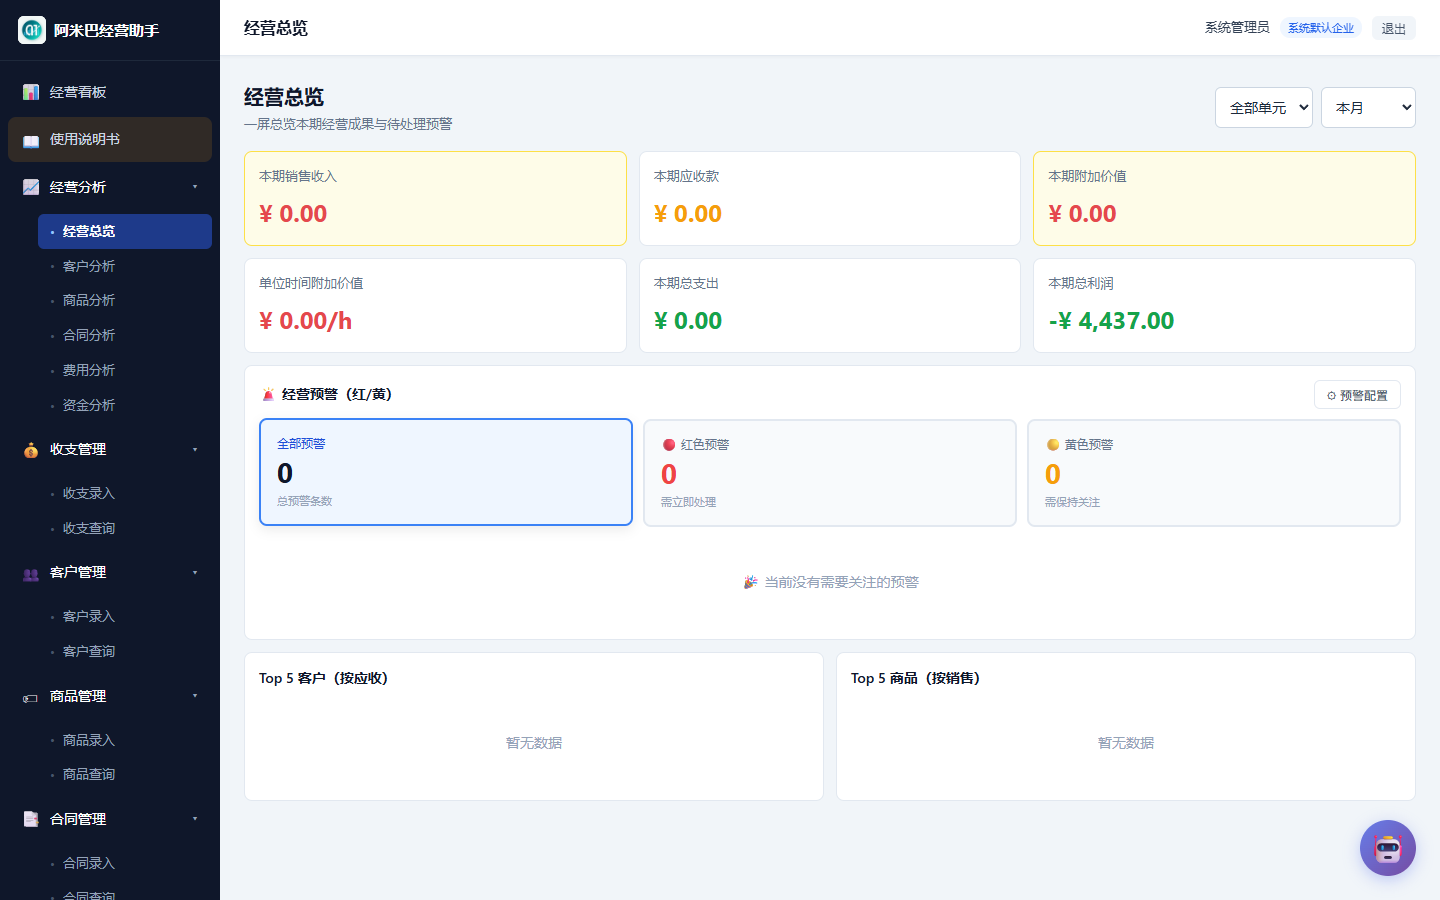
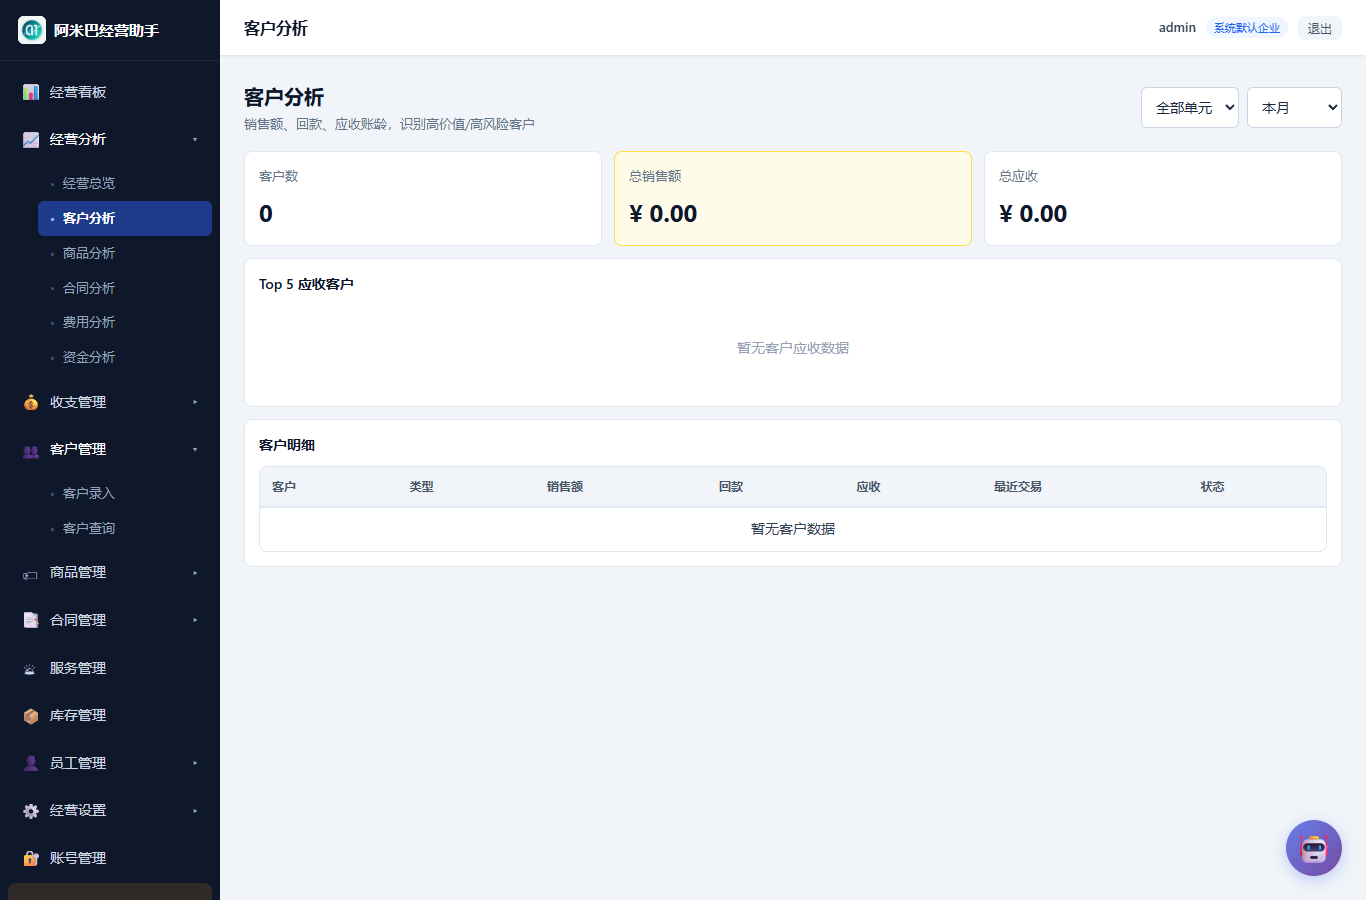
fix: 手册目录固定加宽加序号、限制截图大小、重截错配图、第9章去admin

diff --git a/public/js/manual.js b/public/js/manual.js
@@ -22,15 +22,15 @@ const Manual = (() => {
   function form(f){ return `<div class="callout formula"><span class="co-ic">🧮</span><div>${f}</div></div>`; }
 
   const TOC = [
-    { id: 'ch1', t: '新手上路：第一次使用' },
-    { id: 'ch2', t: '管好客户与合同（前置基础）' },
-    { id: 'ch3', t: '记好每一笔账（收支管理）' },
-    { id: 'ch4', t: '商品、服务与库存' },
-    { id: 'ch5', t: '看清经营状况' },
-    { id: 'ch6', t: '算清阿米巴的账' },
-    { id: 'ch7', t: '管人与发薪（员工管理）' },
-    { id: 'ch8', t: 'AI 经营助手提效' },
-    { id: 'ch9', t: '系统设置与账号（管理员）' }
+    { id: 'ch1', t: '1、新手上路：第一次使用' },
+    { id: 'ch2', t: '2、管好客户与合同（前置基础）' },
+    { id: 'ch3', t: '3、记好每一笔账（收支管理）' },
+    { id: 'ch4', t: '4、商品、服务与库存' },
+    { id: 'ch5', t: '5、看清经营状况' },
+    { id: 'ch6', t: '6、算清阿米巴的账' },
+    { id: 'ch7', t: '7、管人与发薪（员工管理）' },
+    { id: 'ch8', t: '8、AI 经营助手提效' },
+    { id: 'ch9', t: '9、经营设置' }
   ];
 
   function render() {
@@ -57,7 +57,7 @@ const Manual = (() => {
 
           <!-- ========== 第 1 章 ========== -->
           <section id="ch1" class="manual-ch">
-            <h2>① 新手上路：第一次使用</h2>
+            <h2>第 1 章 新手上路：第一次使用</h2>
             <p>第一次打开系统，只需 1 分钟就能进入工作状态。</p>
 
             <h3>1.1 登录</h3>
@@ -65,7 +65,7 @@ const Manual = (() => {
               <li>在登录页输入<strong>账号</strong>与<strong>密码</strong>，点击「登录」。</li>
               <li>登录成功后自动进入<strong>经营看板</strong>，右上角会显示你的姓名与绑定的企业名称。</li>
             </ol>
-            ${warn('账号由系统管理员（admin）创建并分配。若提示「用户名或密码错误」，请联系管理员确认账号或重置密码。')}
+            ${warn('账号由系统管理员创建并分配。若提示「用户名或密码错误」，请联系管理员确认账号或重置密码。')}
             ${shot('shot-login', '登录页：输入账号密码进入系统')}
 
             <h3>1.2 认识界面</h3>
@@ -88,7 +88,7 @@ const Manual = (() => {
 
           <!-- ========== 第 2 章（前置基础） ========== -->
           <section id="ch2" class="manual-ch">
-            <h2>② 管好客户与合同（前置基础）</h2>
+            <h2>第 2 章 管好客户与合同（前置基础）</h2>
             <p>在记任何一笔账之前，请先在这里把<strong>客户</strong>和<strong>合同</strong>建好。原因很关键：<strong>系统里绝大部分收入和支出，都建立在「与某份合同关联」的基础之上</strong>——合同一旦建立，后续每次收款、付款、回款进度都会自动归集到这份合同，经营看板的应收/应付、合同分析也才有数据。</p>
             ${warn('强烈建议：先完成本章的客户与合同录入，再进入第 ③ 章记收支。没有合同的收支也能录，但无法参与「按合同回款跟踪」，会漏掉大量经营洞察。')}
 
@@ -121,7 +121,7 @@ const Manual = (() => {
 
           <!-- ========== 第 3 章 ========== -->
           <section id="ch3" class="manual-ch">
-            <h2>③ 记好每一笔账（收支管理）</h2>
+            <h2>第 3 章 记好每一笔账（收支管理）</h2>
             <p>阿米巴经营的核心就是「把每一笔收支记清楚」。在上一章建好客户与合同后，这里录的每一笔都<strong>可以直接关联它们</strong>，让数据自动成网。</p>
 
             <h3>3.1 录入一笔收入或支出</h3>
@@ -164,7 +164,7 @@ const Manual = (() => {
 
           <!-- ========== 第 4 章 ========== -->
           <section id="ch4" class="manual-ch">
-            <h2>④ 商品、服务与库存</h2>
+            <h2>第 4 章 商品、服务与库存</h2>
             <p>三类基础资料，支撑采购、销售与库存核算。</p>
 
             <h3>4.1 商品管理</h3>
@@ -191,7 +191,7 @@ const Manual = (() => {
 
           <!-- ========== 第 5 章 ========== -->
           <section id="ch5" class="manual-ch">
-            <h2>⑤ 看清经营状况</h2>
+            <h2>第 5 章 看清经营状况</h2>
             <p>数据录进来之后，怎么看？两套视图帮你从「概览」到「下钻」。</p>
 
             <h3>5.1 经营看板（首页）</h3>
@@ -215,13 +215,13 @@ const Manual = (() => {
               <li><strong>费用分析</strong>：按类型归集的费用分布。</li>
               <li><strong>资金分析</strong>：应收/应付、账龄与资金健康度。</li>
             </ul>
-            ${shot('shot-analysis', '经营分析：多维度图表下钻')}
+            ${shot('shot-analysis', '客户分析：销售额、回款与应收账龄示例')}
             ${tip('点击图表或表格中的客户/合同名，可一键跳转到对应明细并高亮该行。')}
           </section>
 
           <!-- ========== 第 6 章 ========== -->
           <section id="ch6" class="manual-ch">
-            <h2>⑥ 算清阿米巴的账</h2>
+            <h2>第 6 章 算清阿米巴的账</h2>
             <p>阿米巴经营的精髓：把组织拆成多个小单元，分别算账、分别看贡献。</p>
 
             <h3>6.1 开启部门独立核算</h3>
@@ -242,7 +242,7 @@ const Manual = (() => {
 
           <!-- ========== 第 7 章 ========== -->
           <section id="ch7" class="manual-ch">
-            <h2>⑦ 管人与发薪（员工管理）</h2>
+            <h2>第 7 章 管人与发薪（员工管理）</h2>
             <p>员工是阿米巴的成员，工资是共享的成果，这里只做信息维护与核算，不计入经营支出。</p>
 
             <h3>7.1 维护员工信息</h3>
@@ -268,7 +268,7 @@ const Manual = (() => {
 
           <!-- ========== 第 8 章 ========== -->
           <section id="ch8" class="manual-ch">
-            <h2>⑧ AI 经营助手提效</h2>
+            <h2>第 8 章 AI 经营助手提效</h2>
             <p>不想翻菜单？直接用自然语言问它。</p>
 
             <h3>8.1 唤起与对话</h3>
@@ -296,31 +296,40 @@ const Manual = (() => {
 
           <!-- ========== 第 9 章 ========== -->
           <section id="ch9" class="manual-ch">
-            <h2>⑨ 系统设置与账号（管理员）</h2>
-            <p>以下多为<strong>管理员（admin）</strong>可见；普通账号无「账号管理」入口。</p>
+            <h2>第 9 章 经营设置</h2>
+            <p>在使用系统前，建议先根据企业实际情况配置好基础数据，后续录入和分析才会更顺手。</p>
 
-            <h3>9.1 基础数据维护</h3>
-            <ul>
-              <li><strong>经营设置 ▸ 部门设置</strong>：增删部门，支撑独立核算。</li>
-              <li><strong>经营设置 ▸ 收支类型</strong>：自定义收入/支出类型（如销售收款、房租）。</li>
-              <li><strong>经营设置 ▸ 杂费类别设置</strong>：维护杂费类别与联动规则。</li>
-              <li><strong>经营设置 ▸ 显示与导出设置</strong>：设置默认币种、导出选项等。</li>
-            </ul>
-            ${shot('shot-settings', '经营设置：类型、杂费与显示导出')}
-
-            <h3>9.2 账号管理</h3>
+            <h3>9.1 部门设置</h3>
             <ol>
-              <li>左侧导航 <strong>账号管理</strong>（仅管理员）。</li>
-              <li>查看账号列表，<strong>创建新账号</strong>、停用/启用账号。</li>
-              <li>每个账号绑定唯一<strong>企业名称</strong>，显示在首页账号旁。</li>
+              <li>左侧导航 <strong>经营设置 ▸ 部门设置</strong>。</li>
+              <li>添加企业内部的部门名称（如销售部、生产部、财务部）。</li>
+              <li>开启<strong>「部门独立核算」</strong>后，录入收支时可选择归属部门，看板与分析即可按部门拆分经营成果。</li>
             </ol>
-            ${shot('shot-users', '账号管理：创建账号、绑定企业')}
-            ${warn('账号按「owner_id」隔离数据：每个账号只能看到自己录入的数据。管理员账号可管理所有租户账号，但业务数据仍各自隔离。')}
+            ${shot('shot-dept', '部门设置：增删部门与独立核算开关')}
+            ${warn('开启独立核算后，历史未分配部门的收支会归入「未分配」，建议在期初就规范录入。')}
 
-            <h3>9.3 修改自己的密码</h3>
+            <h3>9.2 收支类型</h3>
             <ol>
-              <li>在登录态下使用「修改密码」功能，输入原密码与新密码（至少 6 位）即可。</li>
+              <li>左侧导航 <strong>经营设置 ▸ 收支类型</strong>。</li>
+              <li>自定义收入/支出类型（如销售收款、材料采购、房租、差旅费）。</li>
+              <li>可设置类型是否关联客户、商品、加工或杂费细分，以适应不同业务场景。</li>
             </ol>
+            ${shot('shot-settings', '收支类型设置：自定义类型与关联规则')}
+
+            <h3>9.3 杂费类别设置</h3>
+            <ol>
+              <li>左侧导航 <strong>经营设置 ▸ 杂费类别设置</strong>。</li>
+              <li>维护杂费类别（如办公费、水电费、市场推广费）。</li>
+              <li>录入「杂费支出」时选择对应类别，费用分析即可按类别归集。</li>
+            </ol>
+
+            <h3>9.4 显示与导出设置</h3>
+            <ol>
+              <li>左侧导航 <strong>经营设置 ▸ 显示与导出设置</strong>。</li>
+              <li>设置默认币种（¥ / $ / €）、导出字段、页面显示偏好等。</li>
+              <li>设置后会影响看板、列表和导出 Excel 的展示。</li>
+            </ol>
+            ${tip('建议先完成部门、收支类型、杂费类别的配置，再开始大量录入数据；显示与导出设置可随时调整。')}
 
             <div class="manual-end">— 手册完 · 更多问题随时问右下角 AI 经营助手 —</div>
           </section>

diff --git a/public/css/style.css b/public/css/style.css
@@ -996,24 +996,26 @@ input:checked + .slider:before { transform: translateX(20px); }
 .nav-doc { background: rgba(245, 158, 11, 0.14); margin-top: 2px; }
 .nav-doc:hover { background: rgba(245, 158, 11, 0.24); }
 
-.manual-wrap { display: flex; align-items: flex-start; gap: 20px; }
+.manual-wrap { display: flex; align-items: flex-start; gap: 22px; }
 .manual-toc {
-  width: 224px; flex-shrink: 0; position: sticky; top: 0;
+  width: 280px; flex-shrink: 0; position: sticky; top: 16px;
   background: #fff; border: 1px solid #e2e8f0; border-radius: 12px;
-  padding: 16px 14px; max-height: calc(100vh - 120px); overflow: auto;
+  padding: 18px 16px; max-height: calc(100vh - 120px); overflow-y: auto;
+  box-shadow: 0 1px 3px rgba(15,23,42,0.04);
 }
-.manual-toc-title { font-size: 15px; font-weight: 700; color: #0f172a; }
-.manual-toc-sub { font-size: 12px; color: #94a3b8; margin: 2px 0 12px; }
+.manual-toc-title { font-size: 16px; font-weight: 700; color: #0f172a; }
+.manual-toc-sub { font-size: 12px; color: #94a3b8; margin: 2px 0 14px; }
 .manual-toc ul { list-style: none; margin: 0; padding: 0; }
 .manual-toc li { margin: 0; }
 .manual-toc a {
-  display: block; padding: 8px 10px; border-radius: 8px;
+  display: block; padding: 9px 12px; border-radius: 8px;
   font-size: 13.5px; color: #475569; text-decoration: none; cursor: pointer;
   border-left: 3px solid transparent; transition: all .15s;
+  white-space: nowrap; overflow: hidden; text-overflow: ellipsis;
 }
 .manual-toc a:hover { background: #f1f5f9; color: #0f172a; }
 .manual-toc a.active { background: #eff6ff; color: #1d4ed8; border-left-color: #2563eb; font-weight: 600; }
-.manual-toc-foot { margin-top: 14px; font-size: 12px; color: #94a3b8; line-height: 1.5; }
+.manual-toc-foot { margin-top: 16px; font-size: 12px; color: #94a3b8; line-height: 1.5; }
 
 .manual-content {
   flex: 1; min-width: 0; background: #fff;
@@ -1041,8 +1043,8 @@ input:checked + .slider:before { transform: translateX(20px); }
 .callout.formula { background: #f0fdf4; border-color: #bbf7d0; border-left-color: #22c55e; }
 .callout.formula div { font-family: ui-monospace, SFMono-Regular, Menlo, Consolas, monospace; color: #14532d; }
 
-.manual-shot { margin: 16px 0; border: 1px solid #e2e8f0; border-radius: 10px; overflow: hidden; background: #f8fafc; }
-.manual-shot img { width: 100%; display: block; }
+.manual-shot { margin: 16px 0; border: 1px solid #e2e8f0; border-radius: 10px; overflow: hidden; background: #f8fafc; text-align: center; }
+.manual-shot img { max-width: 100%; max-height: 460px; width: auto; height: auto; display: inline-block; }
 .manual-shot figcaption { font-size: 12px; color: #64748b; padding: 8px 12px; text-align: center; border-top: 1px solid #eef2f7; }
 .manual-shot.shot-missing { min-height: 120px; display: flex; align-items: center; justify-content: center; }
 .shot-ph { text-align: center; color: #94a3b8; font-size: 13px; line-height: 1.6; padding: 18px; }

diff --git a/_verify_final.js b/_verify_final.js
@@ -1,0 +1,50 @@
+const puppeteer = require('puppeteer-core');
+const crypto = require('crypto');
+
+const URL = 'https://amoba-prod-278479-6-1255680742.sh.run.tcloudbase.com/';
+const CHROME = 'C:\\Program Files\\Google\\Chrome\\Application\\chrome.exe';
+const SECRET = 'amoeba-demo-secret-2026';
+
+function makeToken() {
+  const h = Buffer.from(JSON.stringify({ alg: 'HS256', typ: 'JWT' })).toString('base64url');
+  const p = Buffer.from(JSON.stringify({ id: 3, username: 'admin', name: '管理员', company_name: '系统默认企业', role: 'admin', iat: Math.floor(Date.now()/1000) })).toString('base64url');
+  const s = crypto.createHmac('sha256', SECRET).update(`${h}.${p}`).digest('base64url');
+  return `${h}.${p}.${s}`;
+}
+
+(async () => {
+  const browser = await puppeteer.launch({ executablePath: CHROME, headless: 'new', args: ['--no-sandbox','--disable-setuid-sandbox'] });
+  const page = await browser.newPage();
+  await page.setViewport({ width: 1366, height: 900 });
+  await page.goto(URL, { waitUntil: 'networkidle2' });
+  await page.evaluate((t) => localStorage.setItem('amoeba_token', t), makeToken());
+  await page.reload({ waitUntil: 'networkidle2' });
+  await new Promise(r => setTimeout(r, 3000));
+  await page.evaluate(() => { if (typeof App !== 'undefined') App.switchPage('manual'); });
+  await new Promise(r => setTimeout(r, 2500));
+
+  const info = await page.evaluate(() => {
+    const toc = document.querySelector('.manual-toc');
+    const firstLink = document.querySelector('.manual-toc a');
+    const tocStyle = toc ? window.getComputedStyle(toc) : null;
+    const linkStyle = firstLink ? window.getComputedStyle(firstLink) : null;
+    const img = document.querySelector('#page-manual img');
+    const imgStyle = img ? window.getComputedStyle(img) : null;
+    const ch9 = document.getElementById('ch9');
+    return {
+      tocWidth: tocStyle ? tocStyle.width : null,
+      tocPosition: tocStyle ? tocStyle.position : null,
+      firstLinkText: firstLink ? firstLink.textContent : null,
+      linkWhiteSpace: linkStyle ? linkStyle.whiteSpace : null,
+      firstImgMaxHeight: imgStyle ? imgStyle.maxHeight : null,
+      firstImgDisplay: imgStyle ? imgStyle.display : null,
+      ch9Title: ch9 ? ch9.querySelector('h2').textContent : null,
+      ch9HasAdmin: ch9 ? ch9.innerText.includes('admin') : null,
+      ch9HasAccountMgmt: ch9 ? ch9.innerText.includes('账号管理') : null,
+      ch9TextPreview: ch9 ? ch9.innerText.slice(0, 200) : null
+    };
+  });
+  console.log(JSON.stringify(info, null, 2));
+  await browser.close();
+  process.exit(0);
+})().catch(e => { console.error('ERR', e.message); process.exit(1); });
